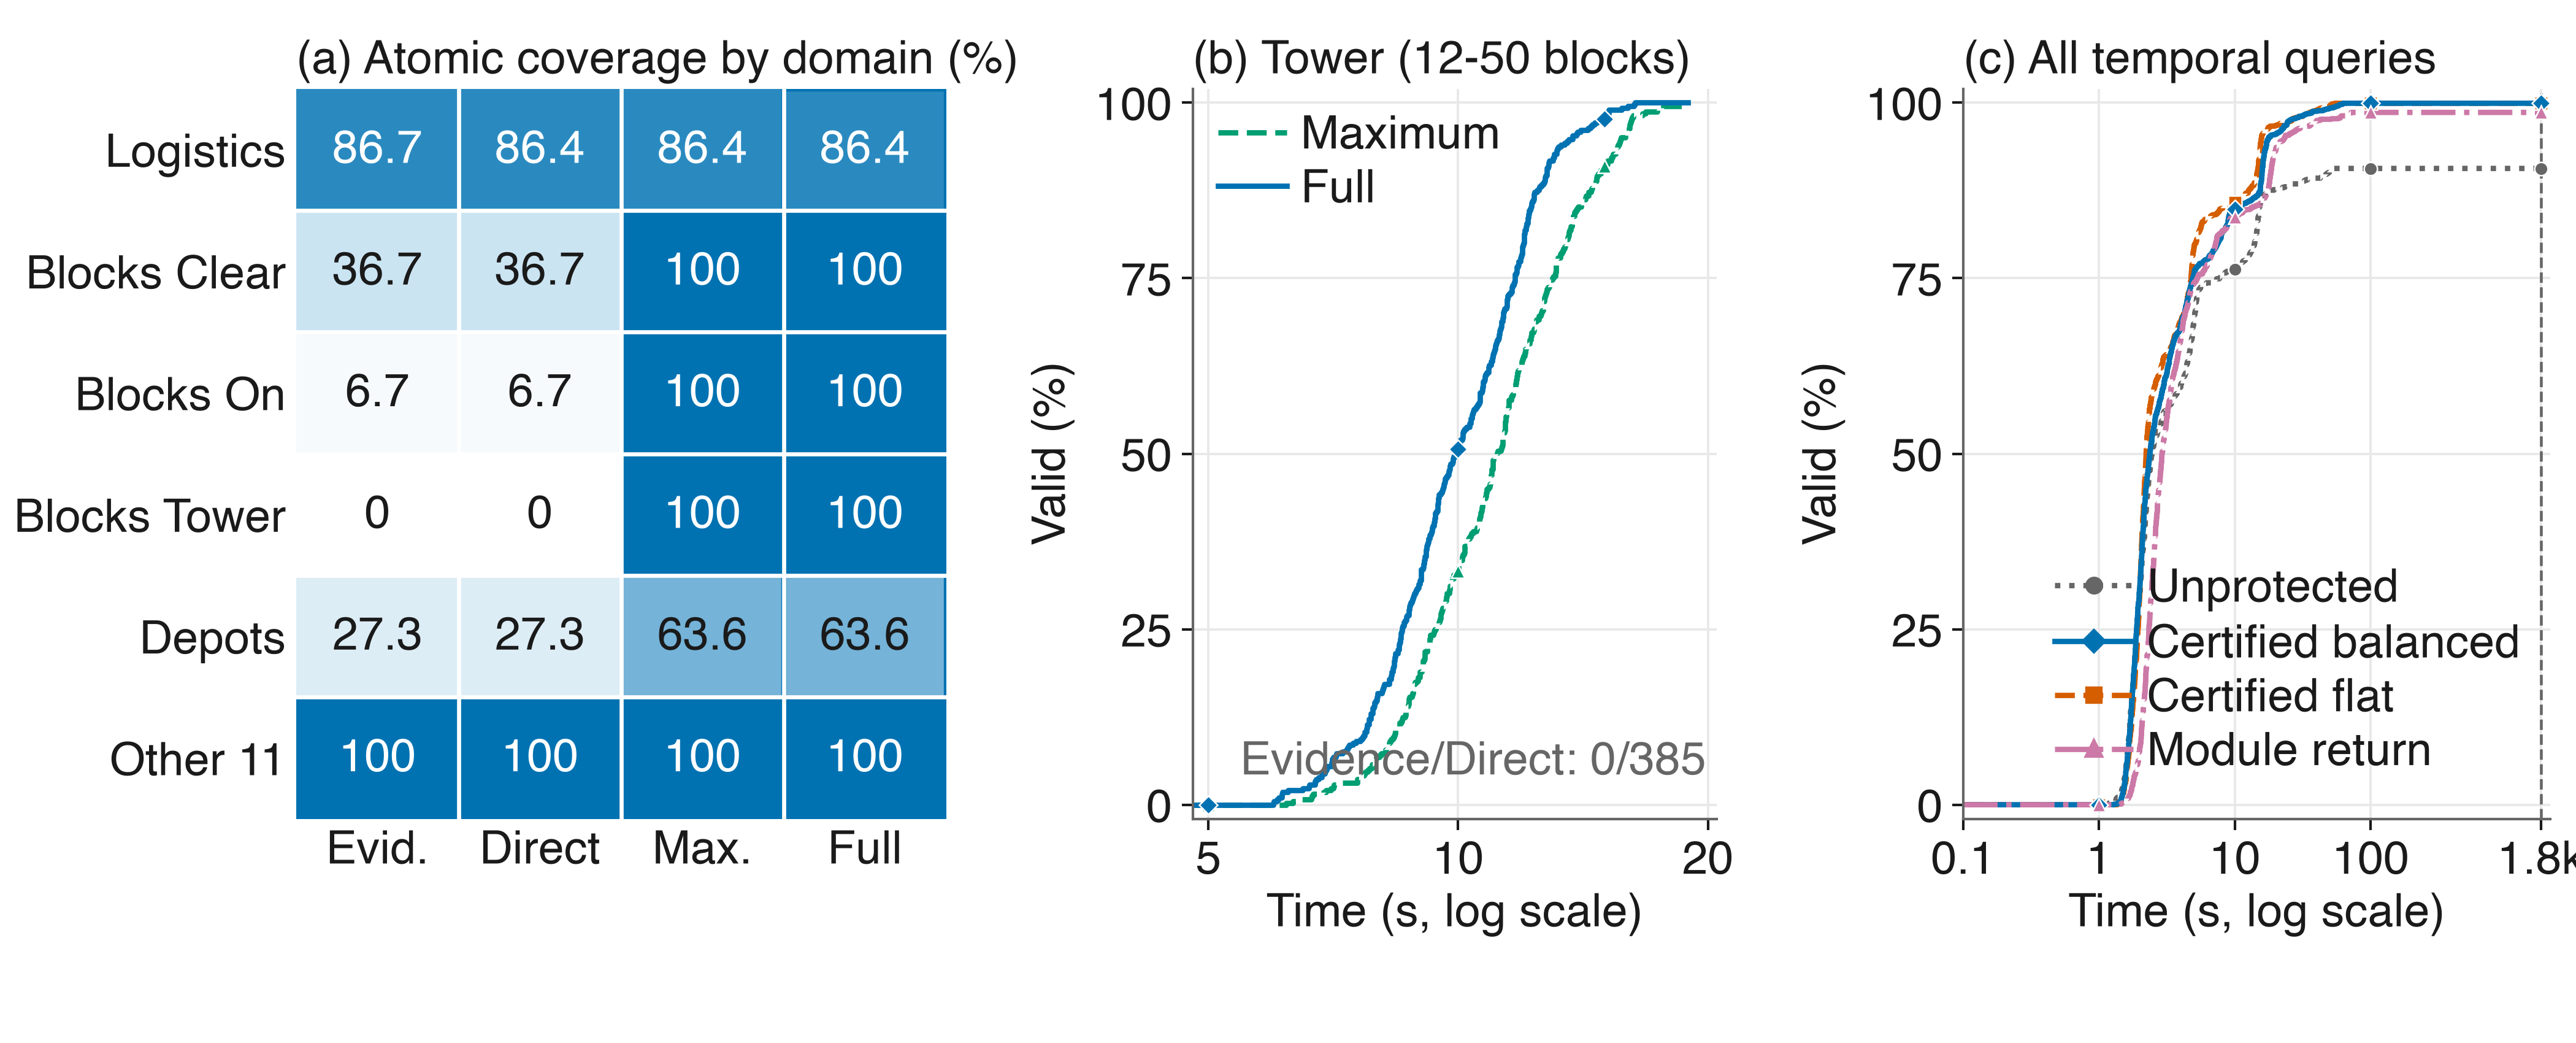
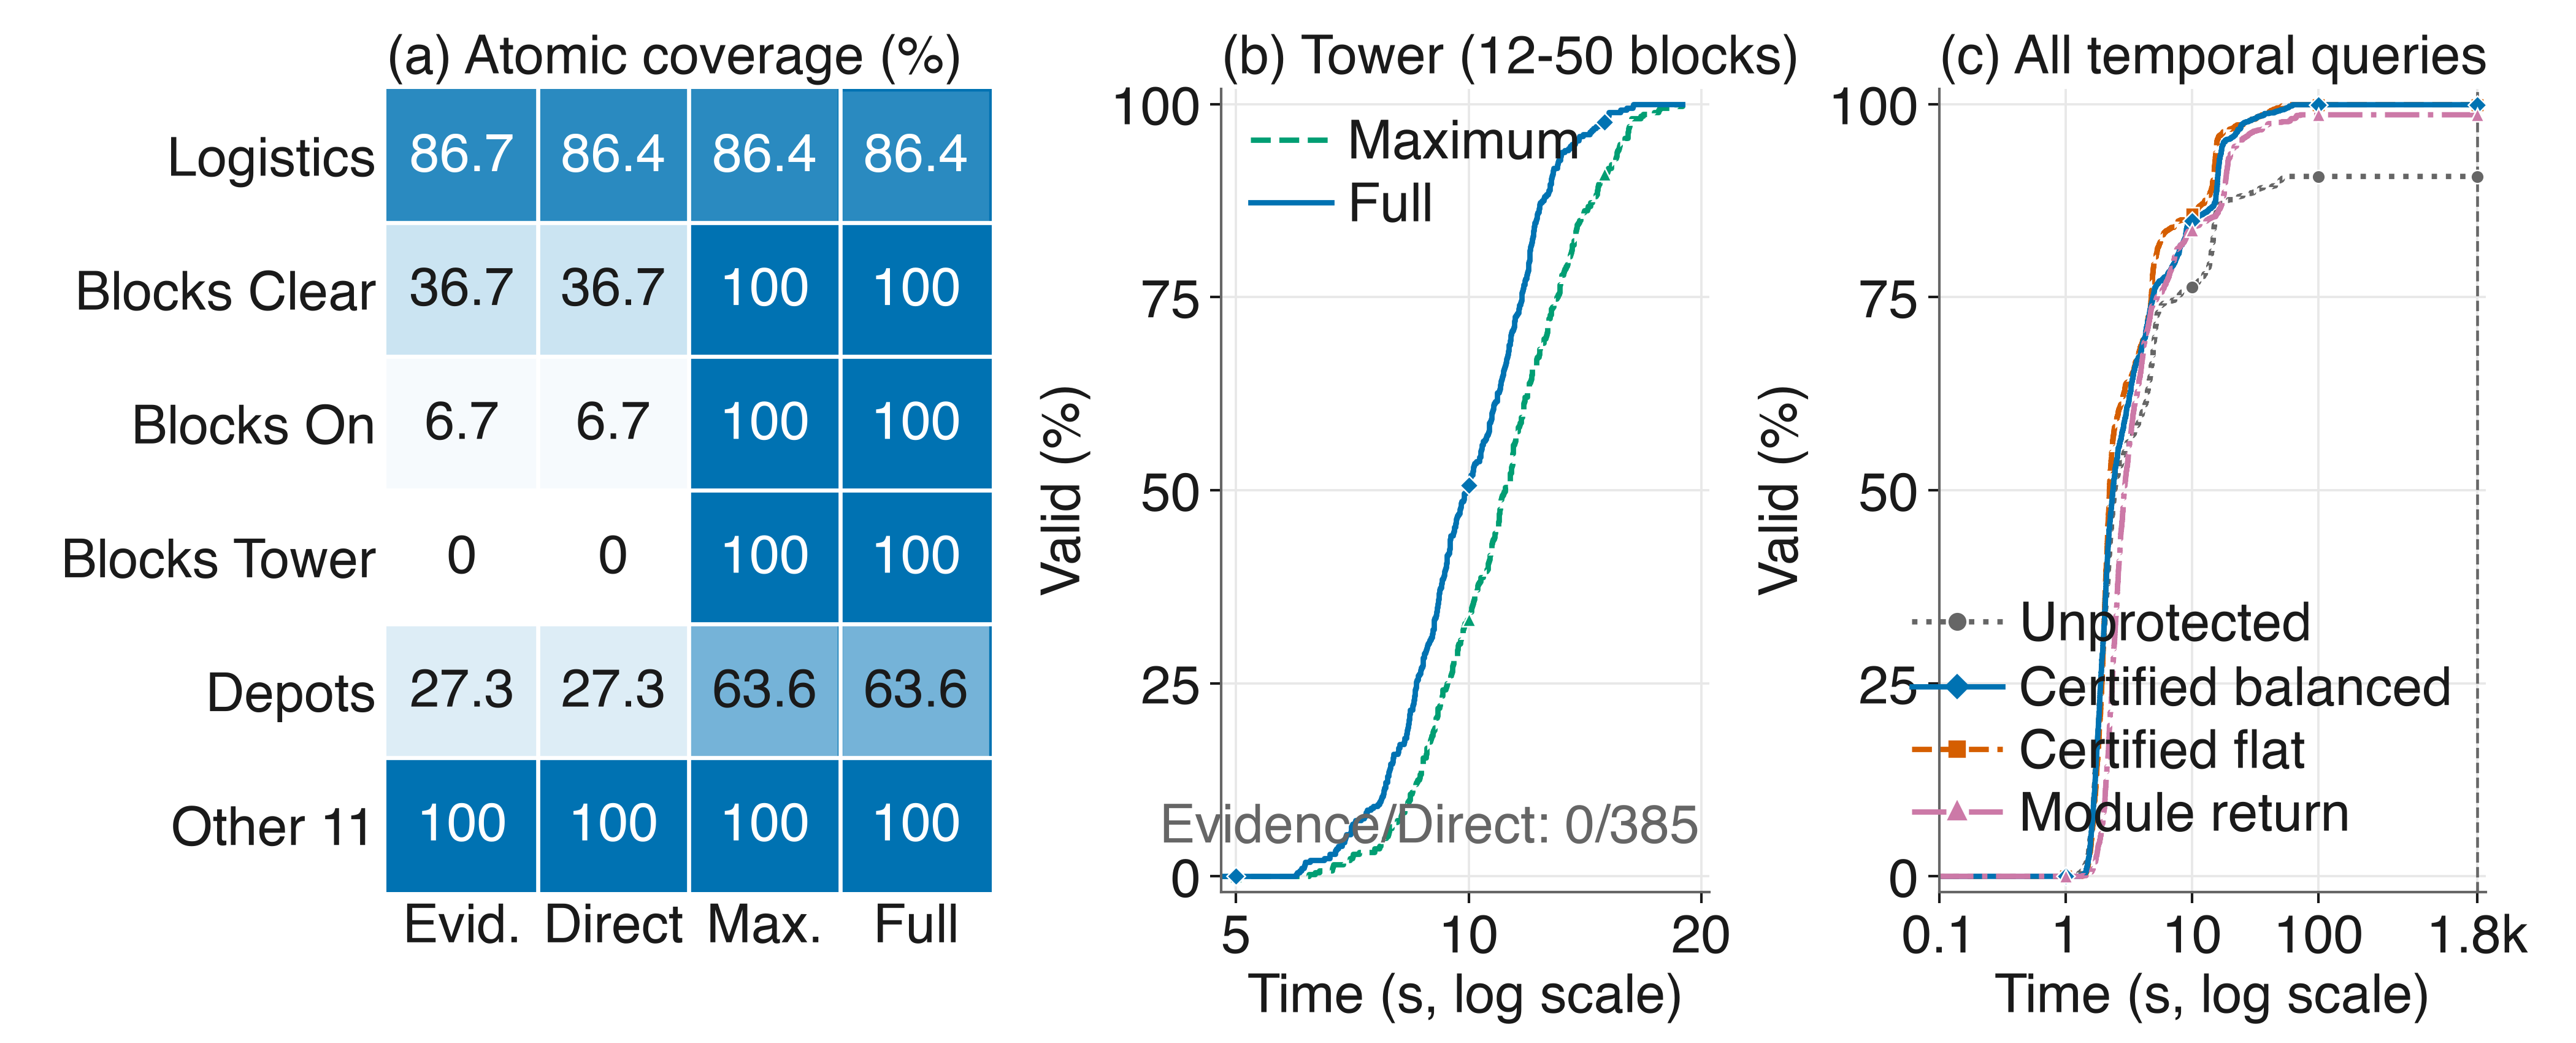
docs: tighten figure three layout

diff --git a/scripts/generate_aaai_figures.py b/scripts/generate_aaai_figures.py
@@ -46,6 +46,8 @@ MINIMUM_LOG_SECONDS = 0.1
 FIGURE_WIDTH_INCHES = 7.0
 FIGURE_HEIGHT_INCHES = 4.25
 FROZEN_ABLATION_FIGURE_HEIGHT_INCHES = 17.0 / 6.0
+FROZEN_ABLATION_MANUSCRIPT_WIDTH_FRACTION = 2.0 / 3.0
+FROZEN_ABLATION_TEXT_POINTS = 10.5
 FIGURE_DPI = 600
 FIGURE_FONT_FAMILY = "Helvetica"
 MINIMUM_FIGURE_TEXT_POINTS = 9.0
@@ -1122,11 +1124,16 @@ def generate_frozen_ablation_figure(
 		"timeout_seconds": REGISTERED_TIMEOUT_SECONDS,
 		"figure_width_inches": FIGURE_WIDTH_INCHES,
 		"figure_height_inches": FROZEN_ABLATION_FIGURE_HEIGHT_INCHES,
+		"manuscript_width_fraction": FROZEN_ABLATION_MANUSCRIPT_WIDTH_FRACTION,
 		"pixel_width": pixel_width,
 		"pixel_height": pixel_height,
 		"dpi": FIGURE_DPI,
 		"font_family": FIGURE_FONT_FAMILY,
-		"minimum_text_size_points": MINIMUM_FIGURE_TEXT_POINTS,
+		"minimum_text_size_points": FROZEN_ABLATION_TEXT_POINTS,
+		"effective_minimum_text_size_points": (
+			FROZEN_ABLATION_TEXT_POINTS
+			* FROZEN_ABLATION_MANUSCRIPT_WIDTH_FRACTION
+		),
 		"color_mode": FIGURE_COLOR_MODE,
 		"panel_contract": (
 			"affected-domain atomic coverage matrix; full paired Tower atomic "
@@ -1744,15 +1751,15 @@ def _plot_five_seed_runtime_groups(axis: Any, dataset: Mapping[str, Any]) -> Non
 def _render_frozen_ablation_figure(dataset: Mapping[str, Any]) -> bytes:
 	rc_parameters = {
 		"font.family": FIGURE_FONT_FAMILY,
-		"font.size": MINIMUM_FIGURE_TEXT_POINTS,
+		"font.size": FROZEN_ABLATION_TEXT_POINTS,
 		"font.weight": "normal",
-		"axes.titlesize": MINIMUM_FIGURE_TEXT_POINTS,
+		"axes.titlesize": FROZEN_ABLATION_TEXT_POINTS,
 		"axes.titleweight": "normal",
-		"axes.labelsize": MINIMUM_FIGURE_TEXT_POINTS,
+		"axes.labelsize": FROZEN_ABLATION_TEXT_POINTS,
 		"axes.labelweight": "normal",
-		"xtick.labelsize": MINIMUM_FIGURE_TEXT_POINTS,
-		"ytick.labelsize": MINIMUM_FIGURE_TEXT_POINTS,
-		"legend.fontsize": MINIMUM_FIGURE_TEXT_POINTS,
+		"xtick.labelsize": FROZEN_ABLATION_TEXT_POINTS,
+		"ytick.labelsize": FROZEN_ABLATION_TEXT_POINTS,
+		"legend.fontsize": FROZEN_ABLATION_TEXT_POINTS,
 		"axes.edgecolor": COLORS["gray"],
 		"axes.linewidth": 0.5,
 		"text.color": COLORS["text"],
@@ -1771,10 +1778,10 @@ def _render_frozen_ablation_figure(dataset: Mapping[str, Any]) -> bytes:
 		focus_axis = figure.add_subplot(grid[0, 1])
 		temporal_axis = figure.add_subplot(grid[0, 2])
 		figure.subplots_adjust(
-			left=0.115,
-			right=0.99,
+			left=0.15,
+			right=0.965,
 			top=0.915,
-			bottom=0.215,
+			bottom=0.145,
 			wspace=0.42,
 		)
 		_plot_atomic_domain_matrix(atomic_axis, dataset)
@@ -1851,7 +1858,7 @@ def _plot_atomic_domain_matrix(axis: Any, dataset: Mapping[str, Any]) -> None:
 	axis.grid(which="minor", color="white", linewidth=0.8)
 	axis.tick_params(which="minor", bottom=False, left=False)
 	axis.tick_params(axis="both", length=0, pad=2.0)
-	axis.set_title("(a) Atomic coverage by domain (%)", loc="left", pad=3.0)
+	axis.set_title("(a) Atomic coverage (%)", loc="left", pad=3.0)
 	for spine in axis.spines.values():
 		spine.set_visible(False)
 

diff --git a/tests/test_generate_aaai_figures.py b/tests/test_generate_aaai_figures.py
@@ -8,6 +8,7 @@ from typing import Callable
 
 import pytest
 from PIL import Image
+from PIL import ImageChops
 
 from scripts.generate_aaai_figures import ATOMIC_VARIANTS
 from scripts.generate_aaai_figures import BENCHMARK_GROUPS
@@ -153,6 +154,15 @@ def test_generate_frozen_ablation_figure_writes_600_dpi_png_and_provenance(
 		assert figure.format == "PNG"
 		assert figure.size == (4200, 1700)
 		assert figure.info["dpi"] == pytest.approx((600.0, 600.0), abs=0.1)
+		difference = ImageChops.difference(
+			figure.convert("RGB"),
+			Image.new("RGB", figure.size, "white"),
+		).convert("L")
+		content_bounds = difference.point(
+			lambda value: 255 if value > 8 else 0,
+		).getbbox()
+		assert content_bounds is not None
+		assert figure.height - content_bounds[3] <= 72
 	assert output_file.read_bytes().startswith(b"\x89PNG\r\n\x1a\n")
 	assert FIGURE_DPI == 600
 	assert metadata["artifact_kind"] == "gp2pl_ablation_empirical_figure"
@@ -164,6 +174,8 @@ def test_generate_frozen_ablation_figure_writes_600_dpi_png_and_provenance(
 	assert metadata["pixel_width"] == 4200
 	assert metadata["pixel_height"] == 1700
 	assert metadata["dpi"] == 600
+	assert metadata["manuscript_width_fraction"] == pytest.approx(2.0 / 3.0)
+	assert metadata["effective_minimum_text_size_points"] >= 7.0
 	assert metadata["color_mode"] == "colorblind-safe with redundant encodings"
 	assert metadata["atomic_focus_domain"] == "blocksworld-tower"
 
@@ -298,9 +310,11 @@ def test_manuscript_places_headline_results_in_main_and_details_in_supplement() 
 		"\\subsection{Questions and Comparisons}",
 	)
 	assert "\\IfFileExists{\\gpplfigurethreepath}" in evaluation_text
+	assert "\\begin{minipage}{0.667\\textwidth}" in evaluation_text
 	assert "\\includegraphics[width=\\textwidth]{\\gpplfigurethreepath}" in (
 		evaluation_text
 	)
+	assert "\\captionsetup{skip=2pt}" in evaluation_text
 	assert "\\label{fig:evaluation-summary}" in evaluation_text
 	for table_input in (
 		"\\input{sections/result_five_seed_atomic_table}",

diff --git a/latex_code/aamas_method_paper/sections/evaluation.tex b/latex_code/aamas_method_paper/sections/evaluation.tex
@@ -8,7 +8,10 @@ oracles, and timing boundary are defined below.
 \IfFileExists{\gpplfigurethreepath}{%
 \begin{figure*}[t!]
 \centering
+\begin{minipage}{0.667\textwidth}
 \includegraphics[width=\textwidth]{\gpplfigurethreepath}
+\end{minipage}
+\captionsetup{skip=2pt}
 \caption{Paired ablations. Panel (a) reports descriptive coverage requiring
 Jason completion and original-goal VAL acceptance
 over five evidence seeds for every domain on which the atomic variants differ;